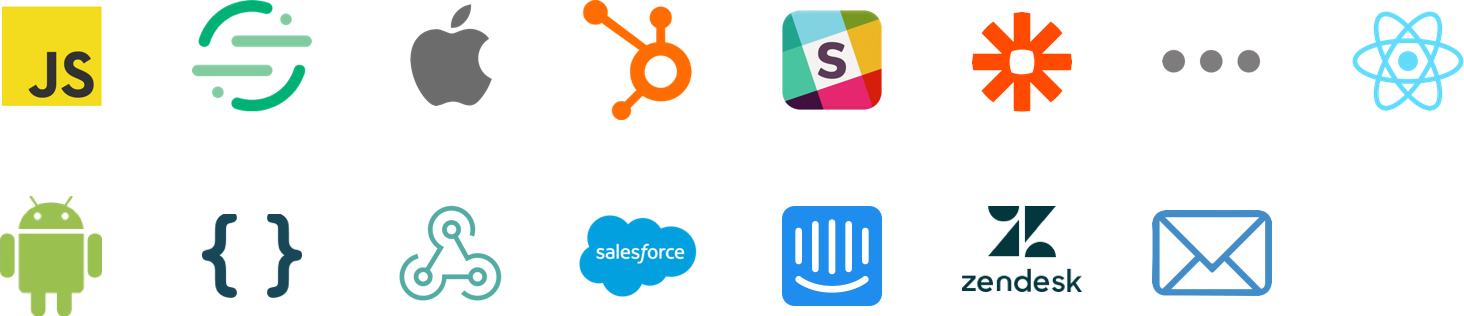
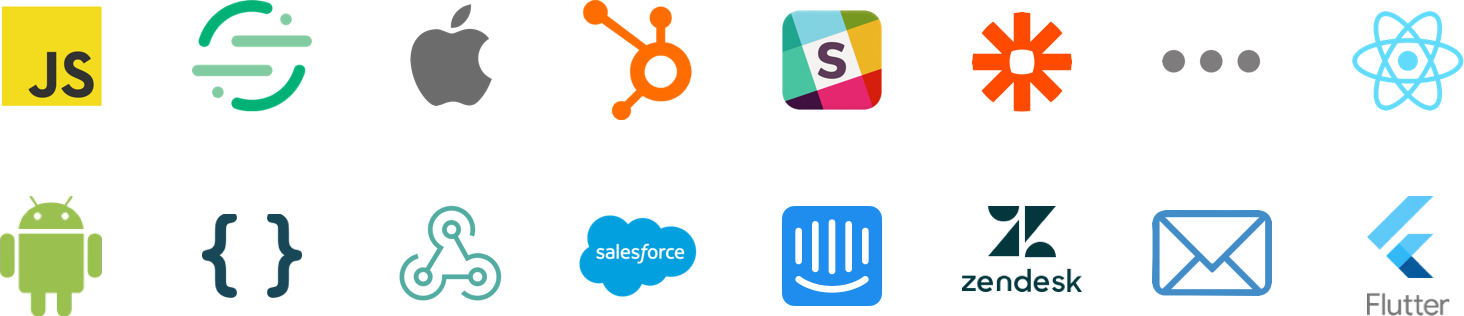
Add Flutter to docs

diff --git a/source/stylesheets/screen.css.scss b/source/stylesheets/screen.css.scss
@@ -726,6 +726,11 @@ html, body {
           background-size: 520px;
         }
 
+        &--flutter {
+          background-position: -460px -50px;
+          background-size: 520px;
+        }
+
         &--more {
           background-color: transparent !important;
           background-position: -308px 20px;
